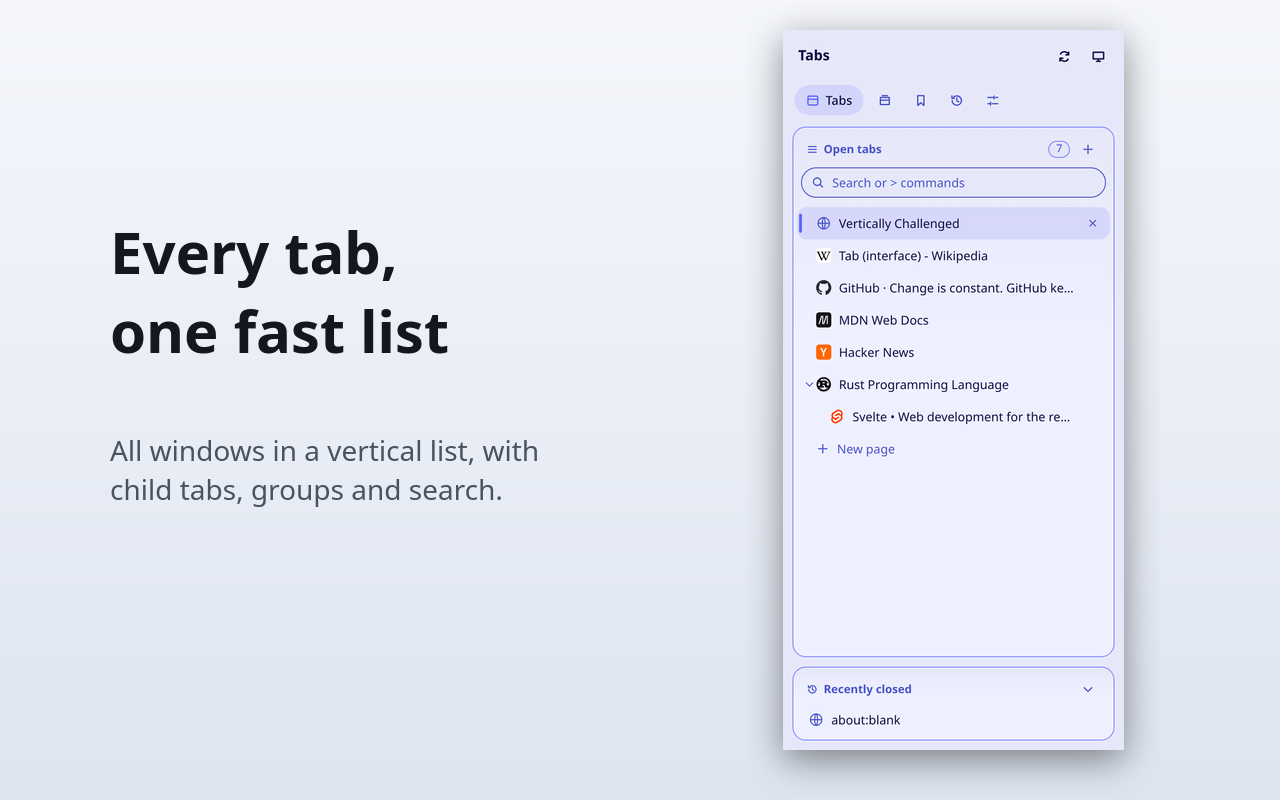
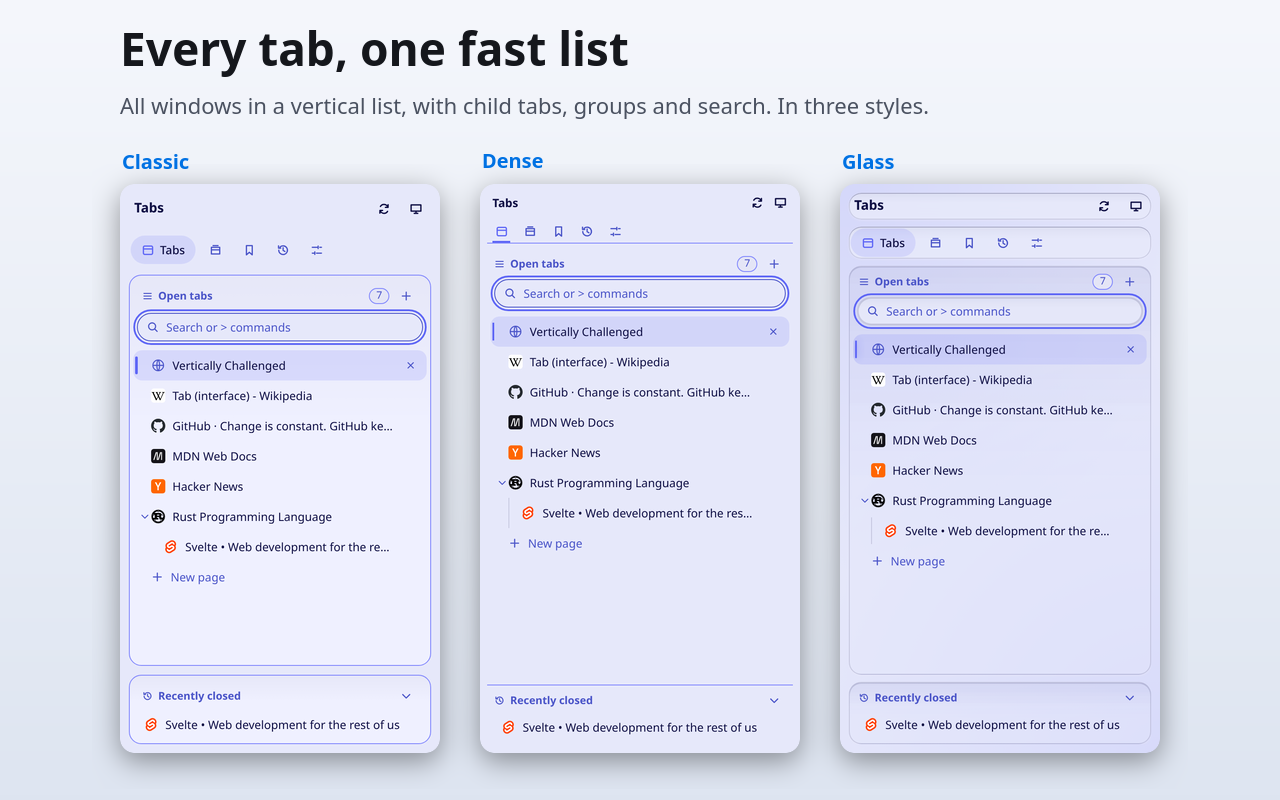
docs(store): show all three styles in each store image
Lay out Classic, Dense and Glass side by side across four images, with
the caption on top. Drop the commands image.

diff --git a/docs/store/LISTING.md b/docs/store/LISTING.md
@@ -6,7 +6,7 @@
 
 **Everything the store form asks for, and the steps to a published listing.**
 
-The images in this folder are built by `node scripts/store-assets.mjs` from the README screenshots.
+The images in this folder are built by `node scripts/store-assets.mjs` from the screenshots `tests/e2e/shots.mjs` takes.
 
 [![Chrome Web Store](https://img.shields.io/badge/Chrome_Web_Store-submit-0071e3?logo=googlechrome&logoColor=white&labelColor=1d1d1f)](https://chrome.google.com/webstore/devconsole)
 [![Firefox](https://img.shields.io/badge/Firefox-AMO.md-0071e3?logo=firefoxbrowser&logoColor=white&labelColor=1d1d1f)](AMO.md)
@@ -46,7 +46,7 @@ After approval, copy the extension ID and set up [automatic uploads](#automatic-
 
 | Use | File | Size |
 | --- | --- | --- |
-| Screenshots | `store-1-tabs.png`, `store-2-search.png`, `store-3-commands.png`, `store-4-history.png`, `store-5-settings.png` | 1280x800 |
+| Screenshots | `store-1-tabs.png`, `store-2-search.png`, `store-3-history.png`, `store-4-settings.png` | 1280x800 |
 | Small promo tile | `store-promo-small.png` | 440x280 |
 | Icon | `public/icon/128.png` | 128x128 |
 

diff --git a/docs/store/AMO.md b/docs/store/AMO.md
@@ -27,8 +27,8 @@ has to be a new release.
    for the review, so no signed `.xpi` is attached to that GitHub release; people install it from
    AMO once it's approved.
 5. **Finish the product page in the Developer Hub** (the parts the API doesn't cover):
-   - Screenshots: upload `store-1-tabs.png`, `store-2-search.png`, `store-3-commands.png`,
-     `store-4-history.png`, `store-5-settings.png`.
+   - Screenshots: upload `store-1-tabs.png`, `store-2-search.png`, `store-3-history.png`,
+     `store-4-settings.png`.
    - Privacy policy: paste the text of [`../PRIVACY.md`](../PRIVACY.md), or link
      <https://github.com/humdedum1/vertically-challenged/blob/main/docs/PRIVACY.md>.
    - Support email: optional; the support URL already points at the issue tracker.
